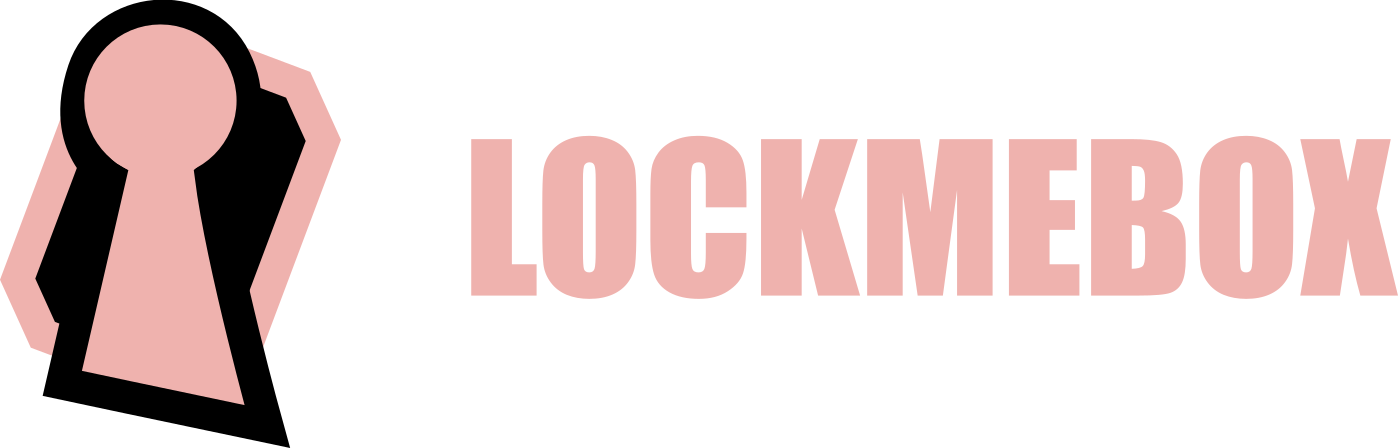
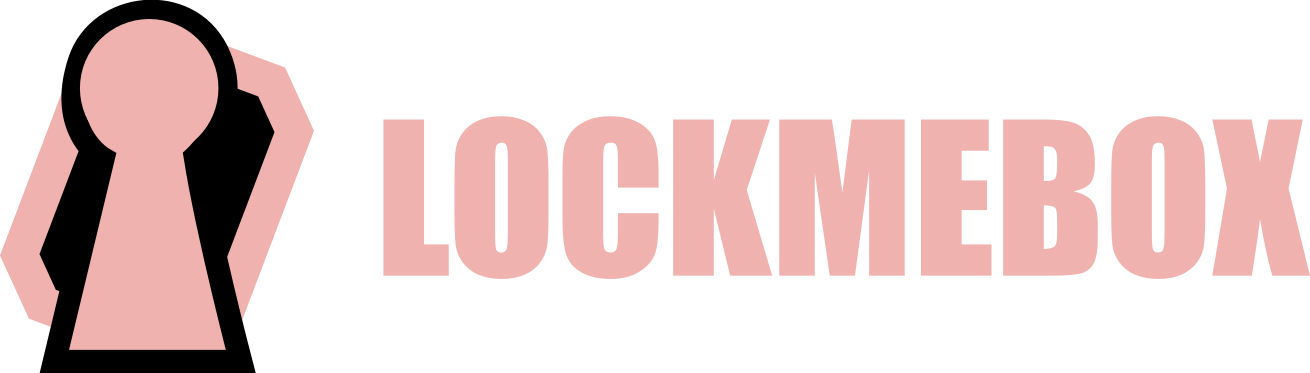
log data bugfix

diff --git a/update_box_status.php b/update_box_status.php
@@ -17,7 +17,7 @@ if ($_SERVER["REQUEST_METHOD"] == "POST") {
     $lockedSince = test_input($_POST["lockedSince"]); 
     $timeLeft = test_input($_POST["timeLeft"]);       
     $firmwareVersion = test_input($_POST["firmwareVersion"]);   
-    $rtc_logCountSwitchCycles_String = test_input($_POST["rtc_logCountSwitchCycles_String"]);   
+    $rtc_logCountOpenCloseCycles_String = test_input($_POST["rtc_logCountOpenCloseCycles_String"]);   
     $rtc_logCountSwitchCycles_String = test_input($_POST["rtc_logCountSwitchCycles_String"]);   
     $rtc_logOnTimeSec_String = test_input($_POST["rtc_logOnTimeSec_String"]);   
     $hardwareVersion = test_input($_POST["hardwareVersion"]);
@@ -49,7 +49,7 @@ if ($_SERVER["REQUEST_METHOD"] == "POST") {
         ':locked_since' => $lockedSince,    
         ':time_left' => $timeLeft,    
         ':firmware_version' => $firmwareVersion,  
-        ':log_openclosecycles' => $rtc_logCountSwitchCycles_String,
+        ':log_openclosecycles' => $rtc_logCountOpenCloseCycles_String,
         ':log_switchcycles' => $rtc_logCountSwitchCycles_String,    
         ':log_ontimesec' => $rtc_logOnTimeSec_String,    
         ':hardware_version' => $hardwareVersion  

diff --git a/templates/header.php b/templates/header.php
@@ -27,7 +27,7 @@
     <body>
         <header class="site-header">
             <a href="index.php" class="logo">
-                <img src="/assets/images/lockmebox_site_header.png" alt="Site Logo" height="40">
+                <img src="/assets/images/lockmebox_site_header.png" alt="Site Logo" height="30">
             </a>
         </header>
 
